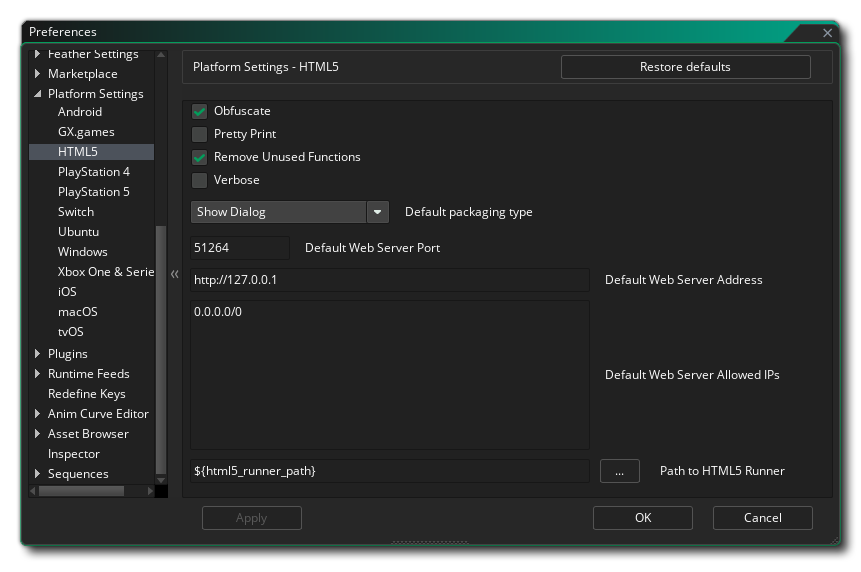
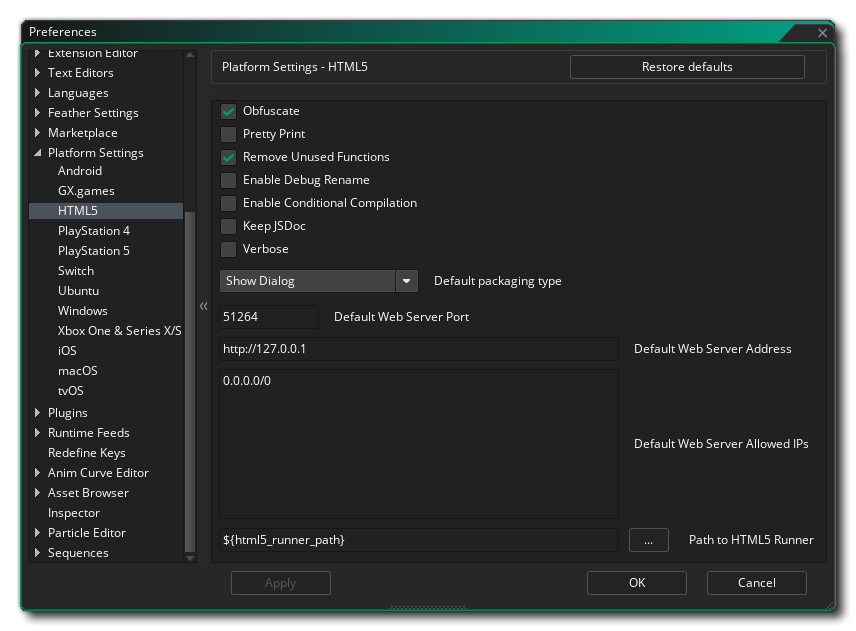
[Feature][HTML5] Document controls for new obfuscation options "Debug Rename", "Conditional Compilation" and "Keep JSDoc" YoYoGames/YoYoStudio#8813 * Updated screenshot & documented the three new options

diff --git a/Manual/contents/Setting_Up_And_Version_Information/Platform_Preferences/HTML5.htm b/Manual/contents/Setting_Up_And_Version_Information/Platform_Preferences/HTML5.htm
@@ -4,7 +4,7 @@
 <head>
   <meta http-equiv="Content-Type" content="text/html; charset=utf-8" />
   <title>HTML5</title>
-  <meta name="generator" content="Adobe RoboHelp 2020" />
+  <meta name="generator" content="Adobe RoboHelp 2022" />
   <link rel="stylesheet" href="../../assets/css/default.css" type="text/css" />
   <script src="../../assets/scripts/main_script.js" type="module"></script>
   <meta name="rh-authors" content="Mark Alexander" />
@@ -19,7 +19,10 @@
   <ul class="colour">
     <li><strong>Obfuscate</strong>: Whether the HTML5 runner code should be obfuscated in debug mode or not.</li>
     <li><strong>Pretty Print</strong>: Whether the game code should be pretty printed (formatted) or not.</li>
-    <li><strong>Remove Unused Functions</strong>: Whether unused functions should be removed from the final JavaScript code (removes both built-in GameMaker functions and custom GML functions which are unused).</li>
+    <li><strong>Remove Unused Functions</strong>: Whether unused functions should be removed from the final JavaScript code (removes both built-in <span data-keyref="GameMaker Name">GameMaker</span> functions and custom GML functions which are unused). Enabling this reduces runtime size.</li>
+    <li><strong>Enable Debug Rename</strong>: This option prefixes identifiers in the minified code with <span class="inline2">obf_</span> instead of renaming them to short ones, making it easier to look for things when debugging.</li>
+    <li><strong>Enable Conditional Compilation</strong>: This option enables conditional compilation of the runtime code, <span>which will strip parts that are unused by your game. It can be used together with <strong>Remove Unused Functions</strong> for best results.</span></li>
+    <li><strong>Keep JSDoc</strong>: This enables or disables JSDoc comments in the game code.</li>
     <li><strong>Verbose</strong>: Enable or disable verbose logging in the Output Log while building for HTML5.</li>
     <li><strong>Default packaging type</strong>: When building a final HTML5 executable package, you can choose between <strong>Package as loose files</strong> - which will simply generate all the required files in a folder - or <strong>Package as Zip</strong> - which will create a compressed <span class="inline">ZIP </span>file that will have the game and any additional files within. By default you will be given a choice of which of these two options you wish to choose on compile, but you can set this preference to always use one or the other. Note that when this option is set to <em>Show Dialogue</em>, in the actual dialogue window that pops up on compile, choosing &quot;Remember Packaging Option&quot; will set this preference to the option you select.</li>
     <li><strong>Default Web Server Port</strong>: This lets you change the default port for the HTML5 web server. Default value is 51264.</li>
@@ -28,7 +31,6 @@
     <li><strong>Path to HTML5 Runner</strong>: Here you can change the path to the HTML5 runner to use a custom version of the runner. The default value is <span class="inline2">${html5_runner_path}</span>, which points to the HTML5 runner downloaded through the IDE.</li>
   </ul>
   <p class="note"><span data-conref="../../assets/snippets/Tag_important.hts"> </span> When using a particular target device (i.e. browser), the IP and port values set for that particular device are used instead of these preferences. Check <a data-xref="{text}" href="../The_Device_Manager.htm#h">The Device Manager</a> to see a list of your devices with their details.</p>
-  <p> </p>
   <p> </p>
   <p> </p>
   <div class="footer">
